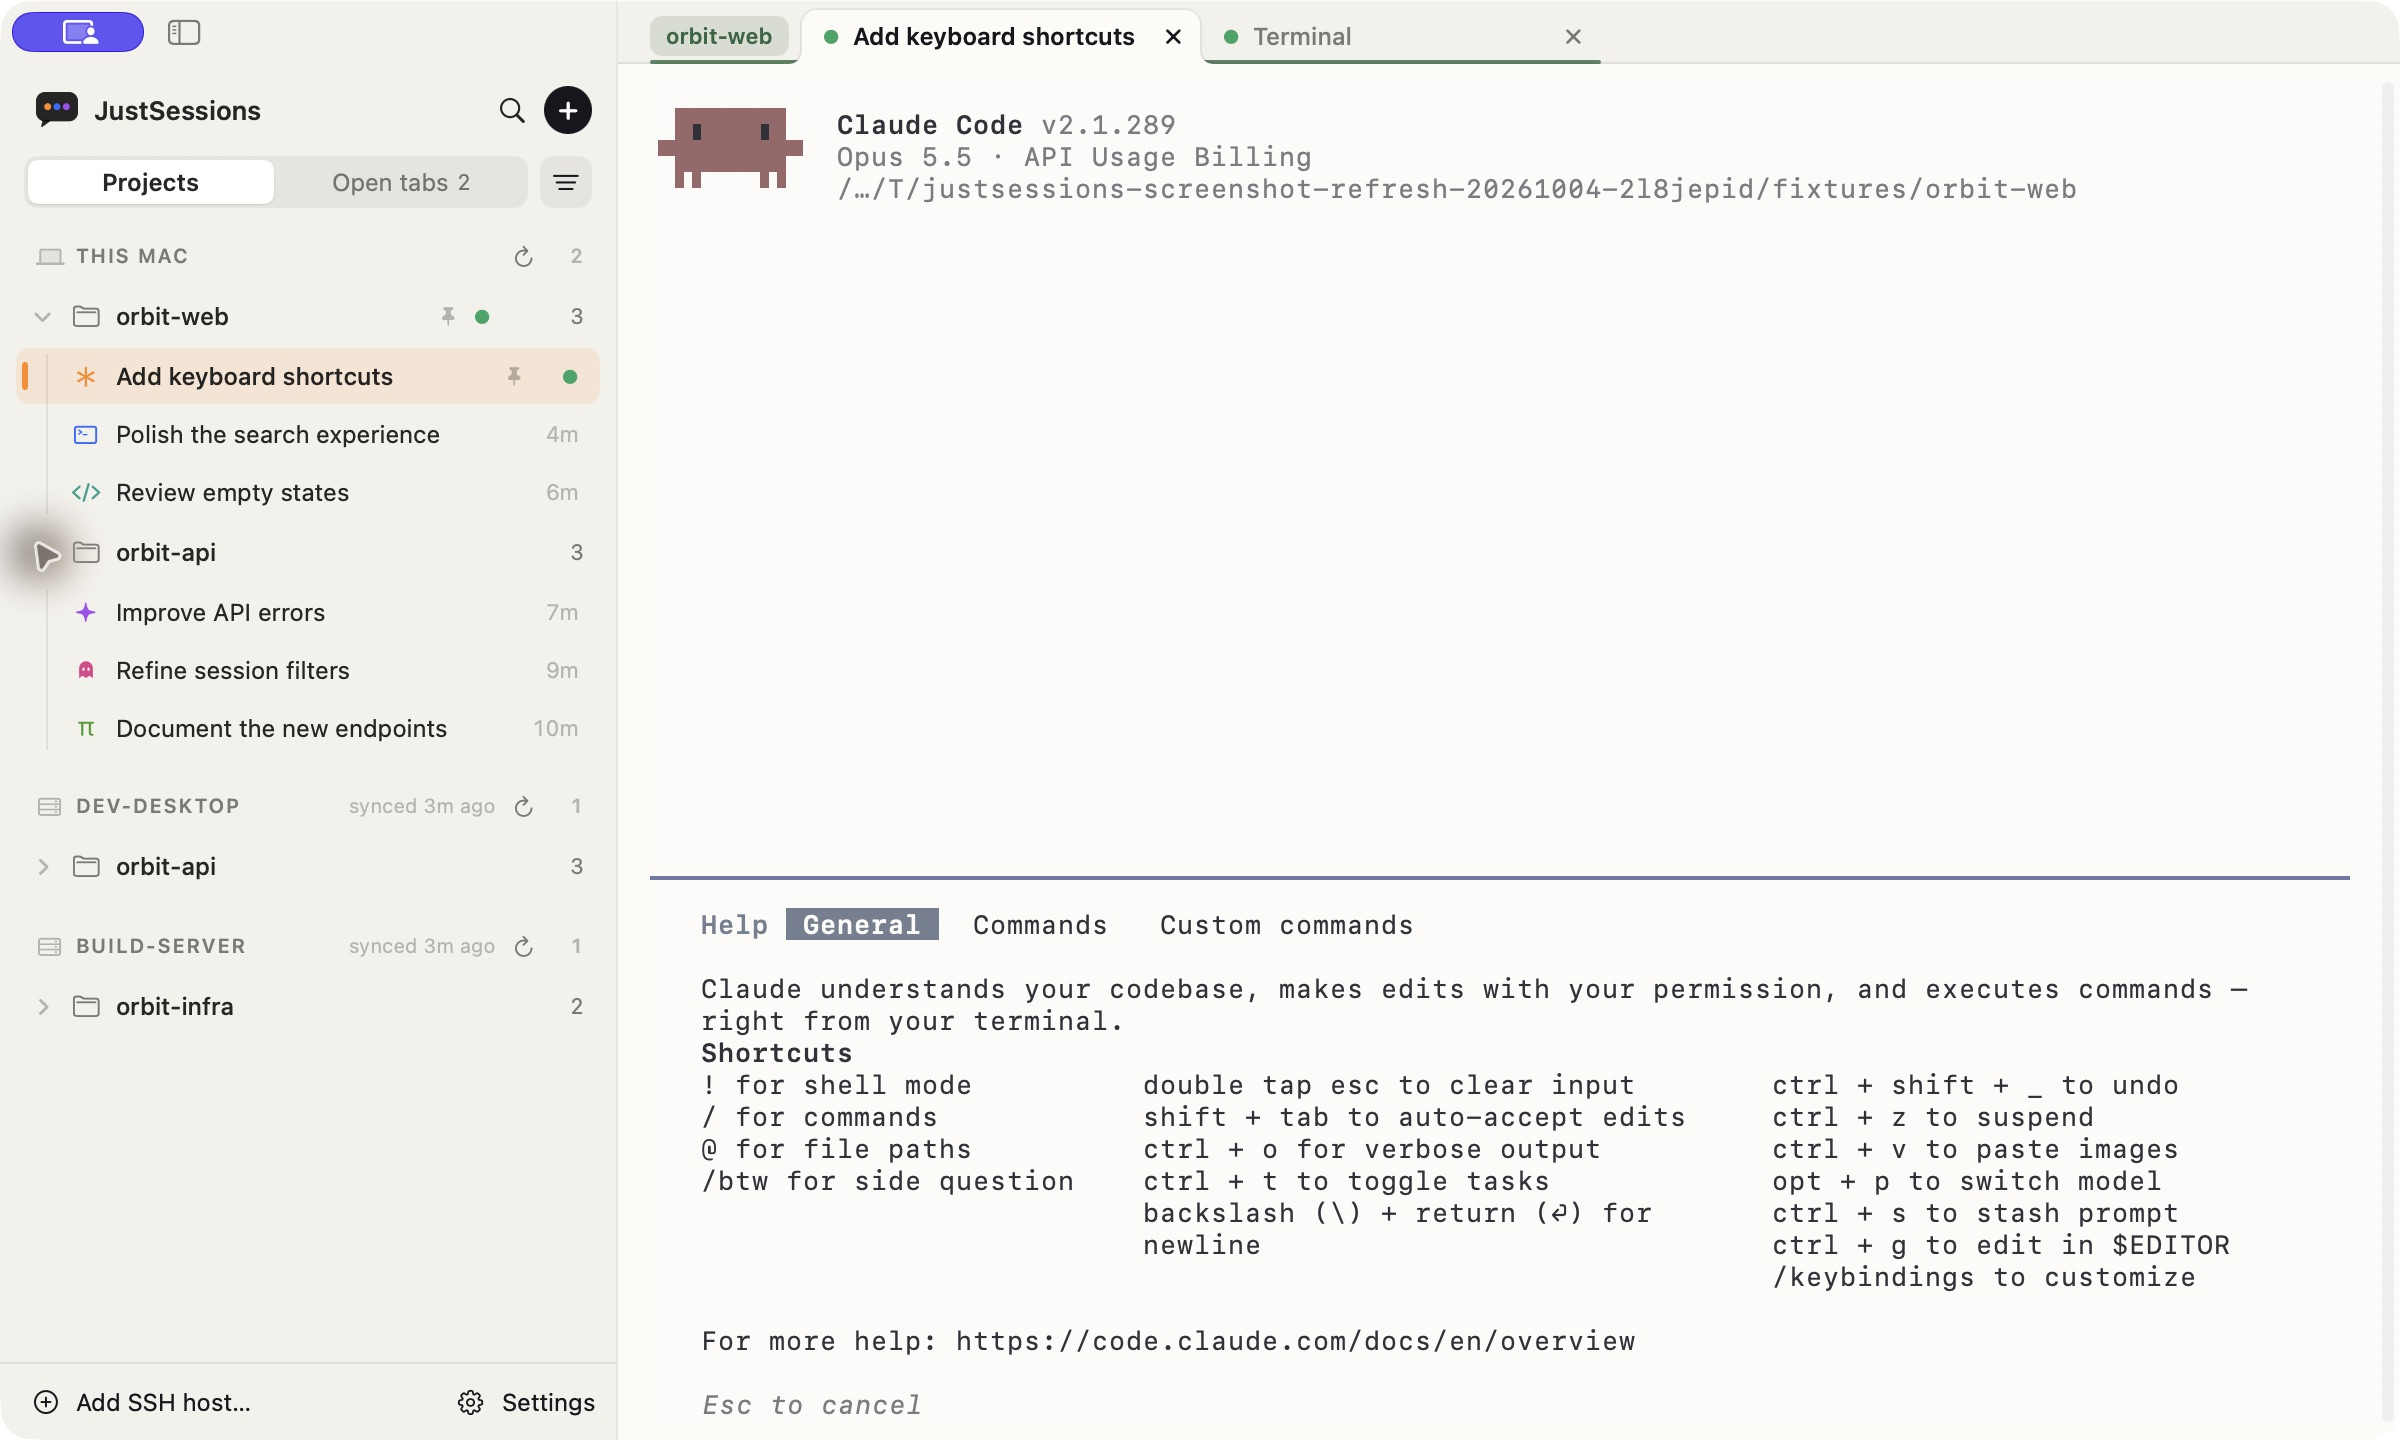
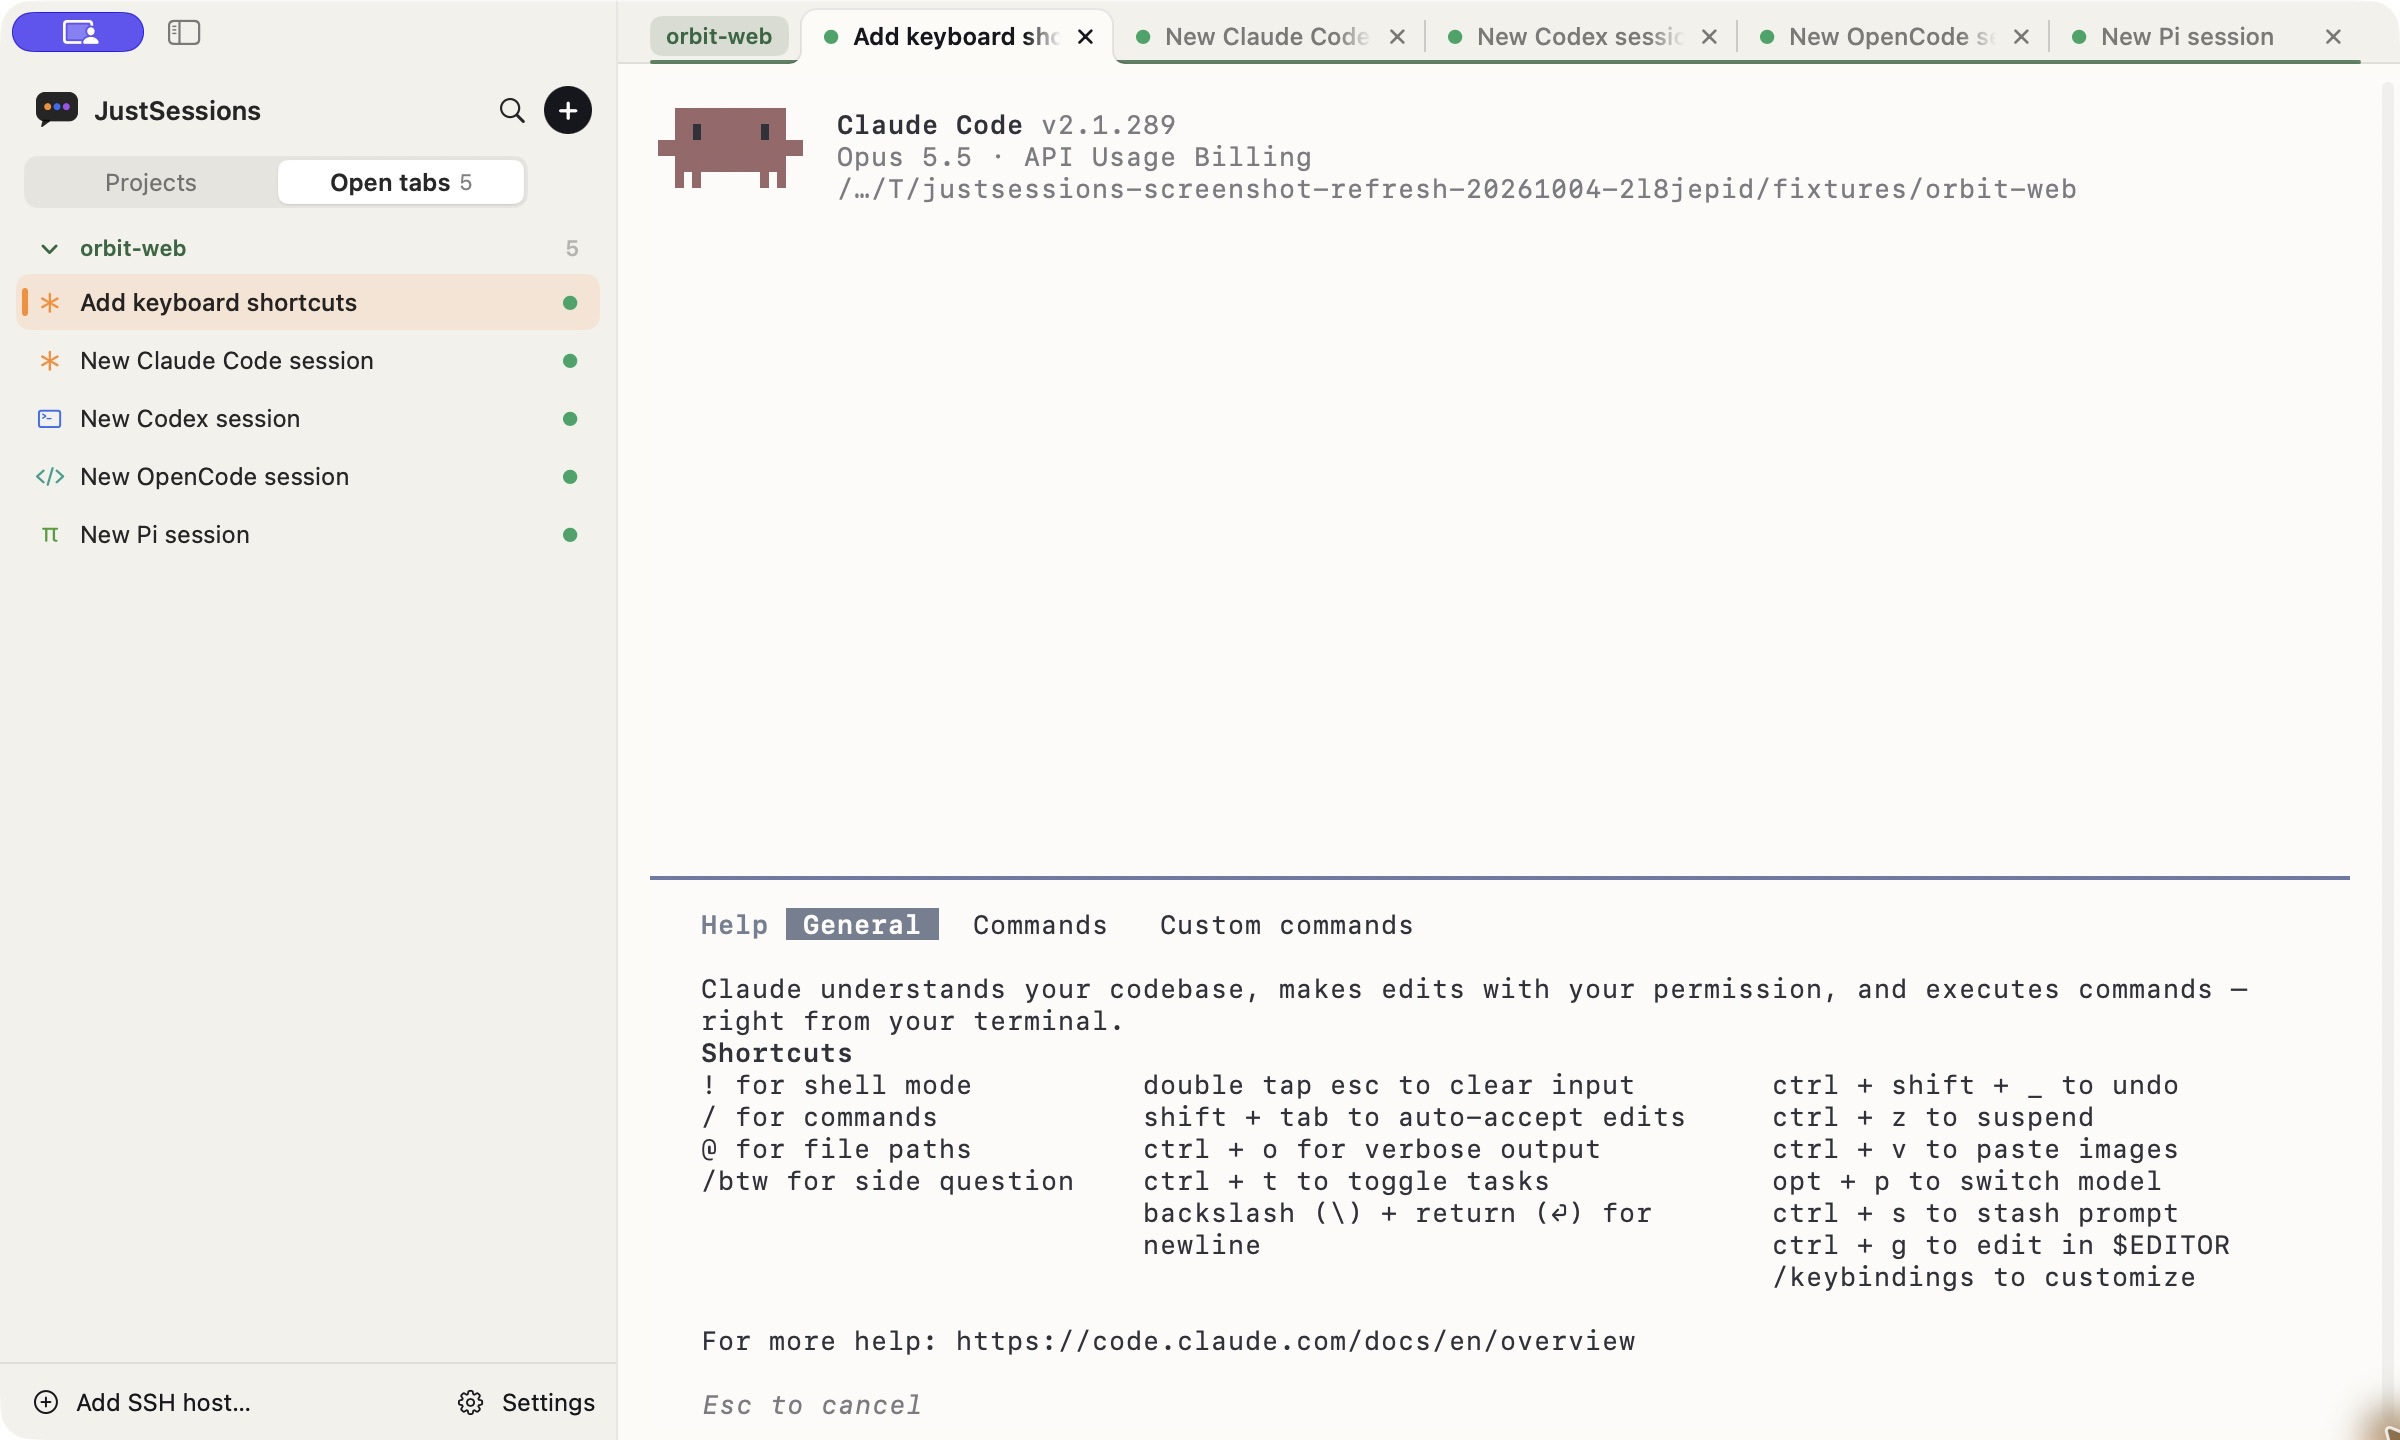
Show multiple agent sessions managed in one project

diff --git a/website/index.html b/website/index.html
@@ -65,7 +65,7 @@
           <div class="gallery-track" tabindex="0" aria-label="Screenshots. Use the left and right arrow keys to browse." data-gallery-track>
             <figure class="gallery-slide" id="terminal" role="group" aria-roledescription="slide" aria-label="1 of 5: Your CLIs">
               <figcaption class="gallery-caption">
-                <h2>The CLIs you already use.</h2>
+                <h2>Multiple agents. One project.</h2>
                 <ul class="provider-list" role="list" aria-label="Supported coding agents">
                   <li class="provider-item provider-claude">
                     <svg class="provider-icon" width="22" height="22" viewBox="0 0 24 24" fill="none" stroke="currentColor" stroke-width="2" stroke-linecap="round" aria-hidden="true" focusable="false"><path d="M12 3v18M4.2 7.5l15.6 9M4.2 16.5l15.6-9"/></svg>
@@ -94,7 +94,8 @@
                 </ul>
               </figcaption>
               <a class="gallery-image" href="./assets/native-terminal.jpg" aria-label="View the native terminal screenshot at full size">
-                <img src="./assets/native-terminal.jpg" width="2400" height="1440" fetchpriority="high" alt="The actual Claude Code CLI local help screen in the current JustSessions native terminal, with project tabs and six agent types in the sidebar.">
+                <img src="./assets/native-terminal.jpg" width="2400" height="1440" fetchpriority="high" alt="JustSessions groups five agent sessions under the orbit-web project: two Claude Code sessions, Codex, OpenCode, and Pi. An orange outline highlights the group beside the real Claude Code CLI help screen.">
+                <img class="gallery-annotation" src="./assets/project-agents-highlight.svg" width="2400" height="1440" decoding="async" alt="" aria-hidden="true">
               </a>
             </figure>
             <figure class="gallery-slide" id="remote" role="group" aria-roledescription="slide" aria-label="2 of 5: SSH sessions">

diff --git a/Scripts/Website/build_site.py b/Scripts/Website/build_site.py
@@ -36,7 +36,7 @@ def build_site():
     version_script_imports(script_directory)
     for image_name in ("session-overview.jpg", "native-terminal.jpg", "split-terminal.jpg", "remote-desktop-sessions.jpg", "tmux-keep-running.jpg", "tmux-close-choice.jpg"):
         shutil.copy2(REPOSITORY_DIRECTORY / "docs/images" / image_name, asset_directory / image_name)
-    for asset_path in ("Branding/SVG/mark.svg", "Branding/ThirdParty/Octicons/mark-github-16.svg", "Branding/PNG/app-icon-256.png", "website/social/social-preview.png", "website/annotations/ssh-host-highlight.svg"):
+    for asset_path in ("Branding/SVG/mark.svg", "Branding/ThirdParty/Octicons/mark-github-16.svg", "Branding/PNG/app-icon-256.png", "website/social/social-preview.png", "website/annotations/ssh-host-highlight.svg", "website/annotations/project-agents-highlight.svg"):
         shutil.copy2(REPOSITORY_DIRECTORY / asset_path, asset_directory / Path(asset_path).name)
     for document_path in WEBSITE_OUTPUT_DIRECTORY.glob("*.html"):
         document_content = document_path.read_text()

diff --git a/docs/development/website.md b/docs/development/website.md
@@ -19,9 +19,9 @@ The homepage's capability summary uses `data-capability` and `data-support="all|
 
 The website reuses screenshots from `docs/images/` and existing `Branding/` assets at build time. Local stylesheet, script, module import, and image links include a content hash so a new page loads matching assets after an update. The build versions script imports before their parent modules and validates all versions. Keep screenshot provenance and sample-data details in [the image documentation](../images/README.md). The homepage gallery shows feature copy only; do not add source notes or sample labels beneath its headings.
 
-The SSH slide adds the decorative `website/annotations/ssh-host-highlight.svg` layer over its screenshot to outline the selected remote host and its sessions. Its viewBox matches the 2400 × 1440 capture, so the annotation scales with the image at every viewport size. When replacing the SSH capture, update the outline coordinates and the alt text together. The full-size link opens the original capture.
+The first slide uses `website/annotations/project-agents-highlight.svg` to outline one project and its agent sessions; the SSH slide uses `website/annotations/ssh-host-highlight.svg` to outline the selected remote host and its sessions. These decorative layers match the 2400 × 1440 captures, so the outlines scale with the images at every viewport size. When replacing either capture, update its outline coordinates and alt text together. Full-size links open the original captures.
 
-The homepage gallery presents your existing CLIs in one native terminal workspace → SSH → tmux → Split → Read. Each slide reads like a presentation page: on screens wider than 1000px, the heading and three short bullet points sit in a left column beside the screenshot, so the whole slide and its controls fit in the first screen of a 1440 × 820 laptop window. Narrower screens stack the text above the screenshot, and the caption row absorbs height differences so screenshots stay aligned without fixed caption heights. The first slide, “The CLIs you already use.”, lists the six supported agents in place of feature bullets. Slide headings stay smaller than the hero title. Screenshots sit directly on the page background, not inside a card. Guide navigation stays in the top bar and footer; the gallery has no small guide links or visible source labels. The slideshow controls sit centered under the screenshot. Five progress segments replace the text navigation labels; the active segment fills until the next screenshot. Each segment is also an accessible direct-selection button. Original screenshots stay unedited and link to their full-size files. The gallery supports swipe/trackpad scrolling, previous/next buttons, and arrow/Home/End keys when the track has focus. Without JavaScript, native scrolling and full-size image links still work.
+The homepage gallery presents your existing CLIs in one native terminal workspace → SSH → tmux → Split → Read. Each slide reads like a presentation page: on screens wider than 1000px, the heading and three short bullet points sit in a left column beside the screenshot, so the whole slide and its controls fit in the first screen of a 1440 × 820 laptop window. Narrower screens stack the text above the screenshot, and the caption row absorbs height differences so screenshots stay aligned without fixed caption heights. The first slide, “Multiple agents. One project.”, lists the six supported agents in place of feature bullets. Its screenshot groups five open agent sessions under one project, including two Claude Code sessions, with an orange outline around the group. Slide headings stay smaller than the hero title. Screenshots sit directly on the page background, not inside a card. Guide navigation stays in the top bar and footer; the gallery has no small guide links or visible source labels. The slideshow controls sit centered under the screenshot. Five progress segments replace the text navigation labels; the active segment fills until the next screenshot. Each segment is also an accessible direct-selection button. Original screenshots stay unedited and link to their full-size files. The gallery supports swipe/trackpad scrolling, previous/next buttons, and arrow/Home/End keys when the track has focus. Without JavaScript, native scrolling and full-size image links still work.
 
 The third slide explains that choosing **Keep running** leaves the CLI in tmux until you click the session to reattach, and places the real close-tab choice over the full reattached-terminal image. Keep these two captures separately linked; choosing Keep running applies to closing a tmux-backed CLI tab, while quitting the app keeps its tmux sessions running without that choice. The fourth slide uses “Tabs like Chrome. Split view.” with bullets for creating and switching tabs, automatically reopening tabs at launch, and showing an agent beside a shell. Its screenshot selects **Open tabs**, showing five tabs grouped vertically by project alongside the Claude Code and shell split view. Feature bullets use one consistent size and weight across desktop and phone layouts.
 

diff --git a/docs/images/README.md b/docs/images/README.md
@@ -4,7 +4,7 @@ These are unedited captures of the actual JustSessions SwiftUI and AppKit interf
 
 | Image | What it shows |
 | --- | --- |
-| [native-terminal.jpg](native-terminal.jpg) | The installed Claude Code CLI's real interactive `/help` screen in the native terminal, with current project tab groups and all six agent icons. |
+| [native-terminal.jpg](native-terminal.jpg) | The installed Claude Code CLI's real interactive `/help` screen beside five Open tabs under the same `orbit-web` project: two Claude Code sessions, Codex, OpenCode, and Pi. Refreshed from the same existing sample app on October 4, 2026. |
 | [split-terminal.jpg](split-terminal.jpg) | The selected Open tabs sidebar lists five tabs across two projects: Claude Code, a shell, Codex, OpenCode, and Pi. The split view pairs the real Claude Code CLI's command input with a shell displaying `git diff`. Refreshed from the same existing sample app on October 4, 2026. |
 | [session-overview.jpg](session-overview.jpg) | The current conversation reader, pinned projects and sessions, Projects / Open tabs navigation, per-host refresh, and reading controls. |
 | [remote-desktop-sessions.jpg](remote-desktop-sessions.jpg) | A selected Claude Code conversation under the sample `dev-desktop` SSH host. |
@@ -13,10 +13,10 @@ These are unedited captures of the actual JustSessions SwiftUI and AppKit interf
 
 Full window captures are 2400 × 1440 pixels; the close-tab dialog capture is 520 × 476. The homepage presents full-width screenshots and links to the originals. Its tmux slide pairs the unedited close-tab dialog with the unedited reattached terminal capture in HTML to explain the choice and the result. CSS clips the dialog to its native rounded corners, hiding the gray capture background without adding another frame. These are two separate captures, not one captured window state.
 
-The homepage's SSH slide overlays [an orange outline](../../website/annotations/ssh-host-highlight.svg) around `DEV-DESKTOP`, its project, and its sessions. This website annotation uses the screenshot's original coordinates and scales with it; it is not part of the app UI. The underlying capture and its full-size link remain unedited.
+The homepage's first slide overlays [an orange outline](../../website/annotations/project-agents-highlight.svg) around the `orbit-web` project and its five agent sessions, including two Claude Code sessions. The SSH slide uses [the same style of outline](../../website/annotations/ssh-host-highlight.svg) around `DEV-DESKTOP`, its project, and its sessions. These website annotations use each screenshot's original coordinates and scale with it; they are not part of the app UI. The underlying captures and their full-size links remain unedited.
 
 `orbit-web`, `orbit-api`, `orbit-infra`, the host names, and all saved conversation text are illustrative. Remote host data is a fixture; these images do not document a live SSH connection.
 
-Claude Code 2.1.289 runs in an isolated sample configuration. Its screenshots show local help and command input; no model prompt was submitted. The split-view shell runs in a temporary sample Git repository with an actual uncommitted change. Its additional tabs were opened through the app's New session dialog using the installed CLIs; no model prompts were submitted to them. The tmux screenshot uses Claude Code in a separate sample server. The screenshot app was quit and reopened, then attached to the same running CLI before its local help screen was captured. The sample server was stopped after capture.
+Claude Code 2.1.289 runs in an isolated sample configuration. Its screenshots show local help and command input; no model prompt was submitted. The additional tabs in the first and split-view screenshots were opened through the app's New session dialog using the installed CLIs; no model prompts were submitted to them. The split-view shell runs in a temporary sample Git repository with an actual uncommitted change. The tmux screenshot uses Claude Code in a separate sample server. The screenshot app was quit and reopened, then attached to the same running CLI before its local help screen was captured. The sample server was stopped after capture.
 
 The capture app was linked from the debug objects produced by `make check`, excluding the normal app entry point, with fixture data and background polling disabled. When replacing these images, capture the current native interface, retain the real feature labels, update the source revision, and keep each screenshot's descriptive alt text and sample caption in the [main README](../../README.md).

diff --git a/README.md b/README.md
@@ -26,7 +26,7 @@
 
 [Website](https://yangzichao.github.io/JustSessions/) · [Download](#download) · [Getting started](docs/guides/getting-started.md) · [SSH](#remote-sessions-over-ssh) · [tmux](#keep-sessions-running-with-tmux) · [Supported CLIs](#supported-clis) · [Documentation](docs/README.md)
 
-![The real Claude Code CLI running in JustSessions' native terminal, with project tabs and sessions from six coding agents](docs/images/native-terminal.jpg)
+![The real Claude Code CLI running in JustSessions, with two Claude Code sessions, Codex, OpenCode, and Pi grouped under one project in Open tabs](docs/images/native-terminal.jpg)
 
 *Real Claude Code CLI, showing its local help screen in a sample project.*
 
